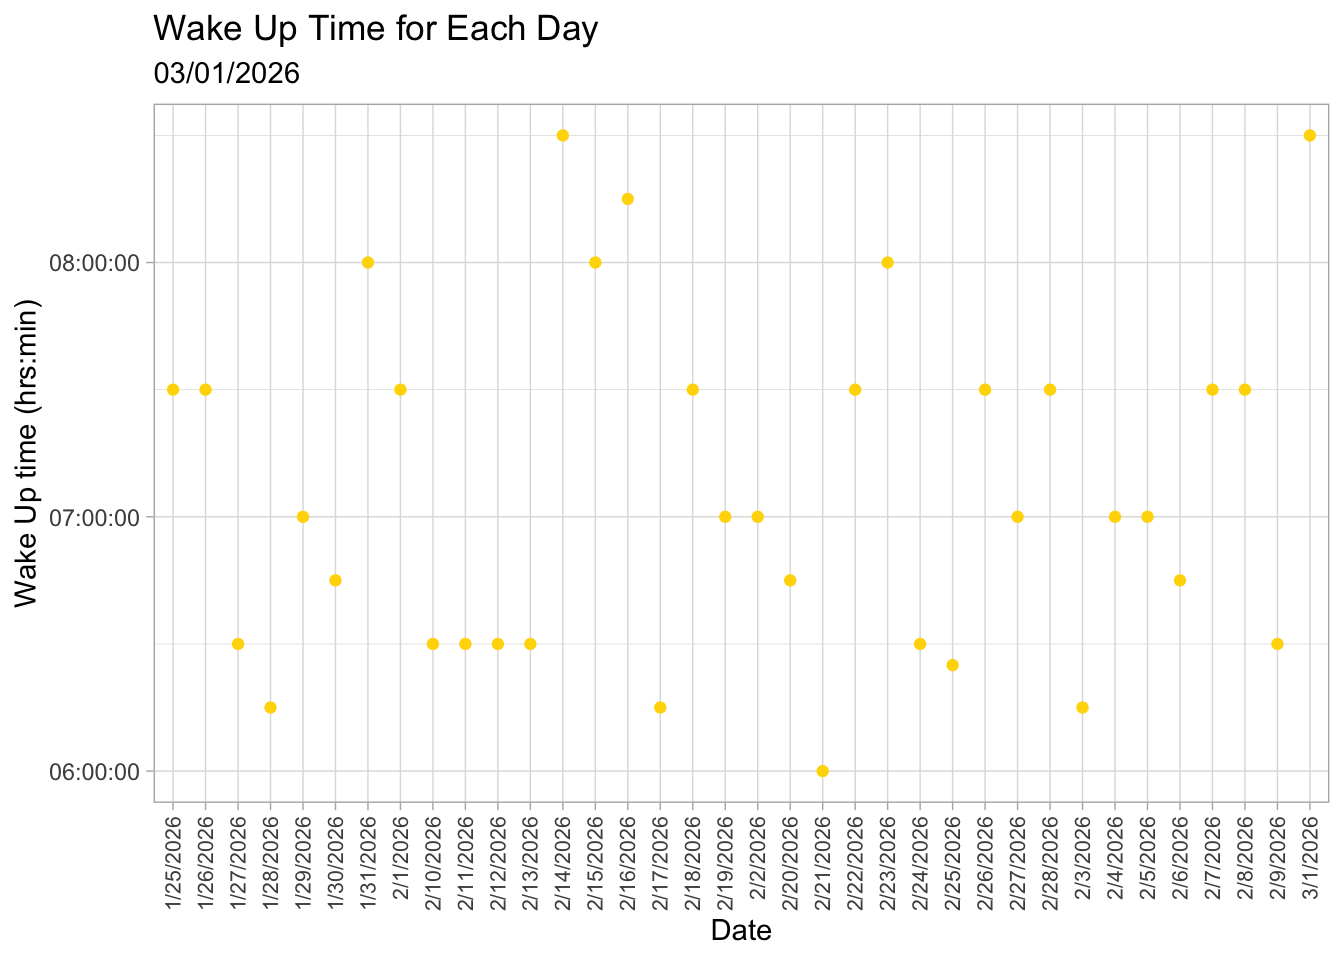
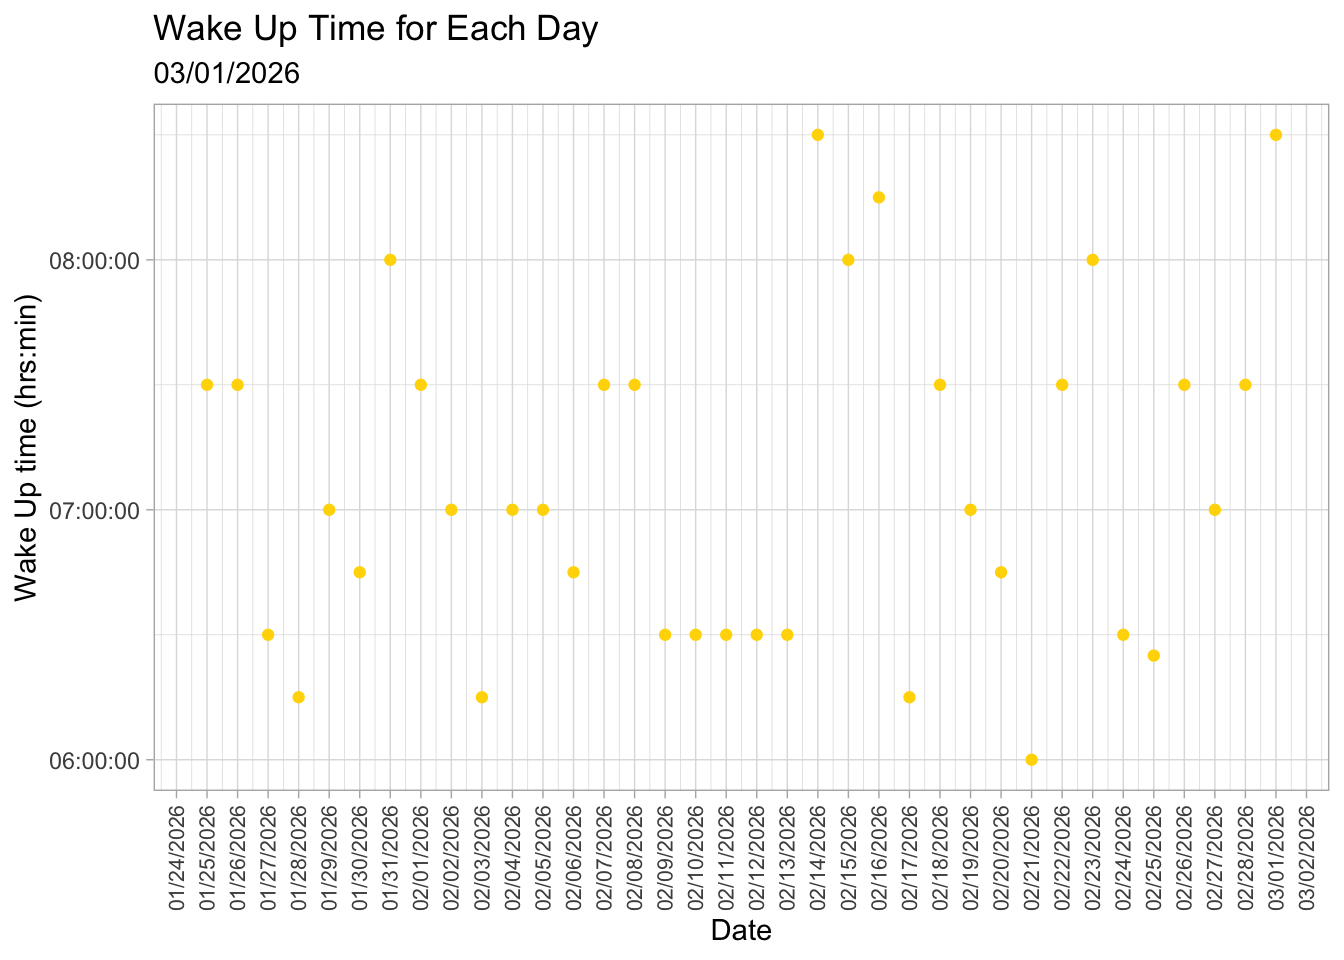
rendered document

diff --git a/Code/Homework03.html b/Code/Homework03.html
@@ -302,7 +302,7 @@ sample estimates:
 0.5928854 </code></pre>
 </div>
 </div>
-<p>Both tests (Pearson’s Correlation and Spearman’s Correlation) would have led me to make the same decision (rejecting the null hypothesis) because the correlation coefficients are similar values that are close to 0.6 and indicate a moderate strength relationship.</p>
+<p>Both tests (Pearson’s Correlation and Spearman’s Correlation) would have led me to make the same decision (rejecting the null hypothesis) because the correlation coefficients are similar values that are close to 0.6 and indicate a moderate strength relationship. The Pearson’s <em>r</em> for the Pearson’s Correlation was 0.534 and the Spearman’s <span class="math inline">\(\rho\)</span> for the Spearman’s Correlation was 0.593.</p>
 </section>
 </section>
 <section id="problem-2.-personal-data" class="level1">
@@ -311,21 +311,22 @@ sample estimates:
 <h2 class="anchored" data-anchor-id="a.-1">a.</h2>
 <div class="cell">
 <div class="code-copy-outer-scaffold"><div class="sourceCode cell-code" id="cb9"><pre class="sourceCode r code-with-copy"><code class="sourceCode r"><span id="cb9-1"><a href="#cb9-1" aria-hidden="true" tabindex="-1"></a>my_data_clean <span class="ot">&lt;-</span> my_data <span class="sc">|&gt;</span> <span class="co">#labeling new data frame</span></span>
-<span id="cb9-2"><a href="#cb9-2" aria-hidden="true" tabindex="-1"></a><span class="fu">clean_names</span>() <span class="co">#cleaned names to only include lower case letters and underscores</span></span>
-<span id="cb9-3"><a href="#cb9-3" aria-hidden="true" tabindex="-1"></a><span class="fu">ggplot</span>(<span class="at">data =</span> my_data_clean, <span class="co">#using my_data_clean data frame</span></span>
-<span id="cb9-4"><a href="#cb9-4" aria-hidden="true" tabindex="-1"></a><span class="fu">aes</span>(<span class="at">x =</span> school_day_yes_no, <span class="co">#placing school_day_yes_no on the x-axis</span></span>
-<span id="cb9-5"><a href="#cb9-5" aria-hidden="true" tabindex="-1"></a><span class="at">y =</span> wake_up_time_hrs_min, <span class="co">#placing wake_up_time_hrs_min on the y-axis</span></span>
-<span id="cb9-6"><a href="#cb9-6" aria-hidden="true" tabindex="-1"></a><span class="at">color =</span> school_day_yes_no)) <span class="sc">+</span> <span class="co">#color by school_day_yes_no</span></span>
-<span id="cb9-7"><a href="#cb9-7" aria-hidden="true" tabindex="-1"></a><span class="fu">geom_boxplot</span>() <span class="sc">+</span> <span class="co">#creating a boxplot</span></span>
-<span id="cb9-8"><a href="#cb9-8" aria-hidden="true" tabindex="-1"></a><span class="fu">labs</span>(<span class="at">x =</span> <span class="st">"School Day"</span>, <span class="co">#labeling the x-axis as School Day</span></span>
-<span id="cb9-9"><a href="#cb9-9" aria-hidden="true" tabindex="-1"></a><span class="at">y =</span> <span class="st">"Wake Up time (hrs:min)"</span>, <span class="co">#labeling the y-axis as Wake Up time (hrs:min)</span></span>
-<span id="cb9-10"><a href="#cb9-10" aria-hidden="true" tabindex="-1"></a><span class="at">title =</span> <span class="st">"Wake Up Time for School Days vs Non-School Days"</span>, <span class="co">#creating title</span></span>
-<span id="cb9-11"><a href="#cb9-11" aria-hidden="true" tabindex="-1"></a><span class="at">subtitle =</span> <span class="st">"03/01/2026"</span>) <span class="sc">+</span> <span class="co">#creating subtitle</span></span>
-<span id="cb9-12"><a href="#cb9-12" aria-hidden="true" tabindex="-1"></a><span class="fu">geom_jitter</span>() <span class="sc">+</span> <span class="co">#creating jittered points</span></span>
-<span id="cb9-13"><a href="#cb9-13" aria-hidden="true" tabindex="-1"></a><span class="fu">theme_light</span>() <span class="sc">+</span> <span class="co">#changing theme to light</span></span>
-<span id="cb9-14"><a href="#cb9-14" aria-hidden="true" tabindex="-1"></a><span class="fu">scale_color_manual</span>(<span class="at">values =</span> <span class="fu">c</span>(<span class="st">"yes"</span> <span class="ot">=</span> <span class="st">"blue4"</span>,</span>
-<span id="cb9-15"><a href="#cb9-15" aria-hidden="true" tabindex="-1"></a><span class="st">"no"</span> <span class="ot">=</span> <span class="st">"red4"</span>)) <span class="sc">+</span> <span class="co">#changing colors based on whether or not it is a school day</span></span>
-<span id="cb9-16"><a href="#cb9-16" aria-hidden="true" tabindex="-1"></a><span class="fu">theme</span>(<span class="at">legend.position =</span> <span class="st">"none"</span>) <span class="co">#removing the legend</span></span></code></pre></div><button title="Copy to Clipboard" class="code-copy-button"><i class="bi"></i></button></div>
+<span id="cb9-2"><a href="#cb9-2" aria-hidden="true" tabindex="-1"></a><span class="fu">clean_names</span>() <span class="sc">|&gt;</span>  <span class="co">#cleaned names to only include lower case letters and underscores</span></span>
+<span id="cb9-3"><a href="#cb9-3" aria-hidden="true" tabindex="-1"></a>  <span class="fu">mutate</span>(<span class="at">date =</span> <span class="fu">as.Date</span>(date, <span class="at">format =</span> <span class="st">"%m/%d/%Y"</span>)) <span class="co">#altering the way the date is read in</span></span>
+<span id="cb9-4"><a href="#cb9-4" aria-hidden="true" tabindex="-1"></a><span class="fu">ggplot</span>(<span class="at">data =</span> my_data_clean, <span class="co">#using my_data_clean data frame</span></span>
+<span id="cb9-5"><a href="#cb9-5" aria-hidden="true" tabindex="-1"></a><span class="fu">aes</span>(<span class="at">x =</span> school_day_yes_no, <span class="co">#placing school_day_yes_no on the x-axis</span></span>
+<span id="cb9-6"><a href="#cb9-6" aria-hidden="true" tabindex="-1"></a><span class="at">y =</span> wake_up_time_hrs_min, <span class="co">#placing wake_up_time_hrs_min on the y-axis</span></span>
+<span id="cb9-7"><a href="#cb9-7" aria-hidden="true" tabindex="-1"></a><span class="at">color =</span> school_day_yes_no)) <span class="sc">+</span> <span class="co">#color by school_day_yes_no</span></span>
+<span id="cb9-8"><a href="#cb9-8" aria-hidden="true" tabindex="-1"></a><span class="fu">geom_boxplot</span>() <span class="sc">+</span> <span class="co">#creating a boxplot</span></span>
+<span id="cb9-9"><a href="#cb9-9" aria-hidden="true" tabindex="-1"></a><span class="fu">labs</span>(<span class="at">x =</span> <span class="st">"School Day"</span>, <span class="co">#labeling the x-axis as School Day</span></span>
+<span id="cb9-10"><a href="#cb9-10" aria-hidden="true" tabindex="-1"></a><span class="at">y =</span> <span class="st">"Wake Up time (hrs:min)"</span>, <span class="co">#labeling the y-axis as Wake Up time (hrs:min)</span></span>
+<span id="cb9-11"><a href="#cb9-11" aria-hidden="true" tabindex="-1"></a><span class="at">title =</span> <span class="st">"Wake Up Time for School Days vs Non-School Days"</span>, <span class="co">#creating title</span></span>
+<span id="cb9-12"><a href="#cb9-12" aria-hidden="true" tabindex="-1"></a><span class="at">subtitle =</span> <span class="st">"03/01/2026"</span>) <span class="sc">+</span> <span class="co">#creating subtitle</span></span>
+<span id="cb9-13"><a href="#cb9-13" aria-hidden="true" tabindex="-1"></a><span class="fu">geom_jitter</span>() <span class="sc">+</span> <span class="co">#creating jittered points</span></span>
+<span id="cb9-14"><a href="#cb9-14" aria-hidden="true" tabindex="-1"></a><span class="fu">theme_light</span>() <span class="sc">+</span> <span class="co">#changing theme to light</span></span>
+<span id="cb9-15"><a href="#cb9-15" aria-hidden="true" tabindex="-1"></a><span class="fu">scale_color_manual</span>(<span class="at">values =</span> <span class="fu">c</span>(<span class="st">"yes"</span> <span class="ot">=</span> <span class="st">"blue4"</span>,</span>
+<span id="cb9-16"><a href="#cb9-16" aria-hidden="true" tabindex="-1"></a><span class="st">"no"</span> <span class="ot">=</span> <span class="st">"red4"</span>)) <span class="sc">+</span> <span class="co">#changing colors based on whether or not it is a school day</span></span>
+<span id="cb9-17"><a href="#cb9-17" aria-hidden="true" tabindex="-1"></a><span class="fu">theme</span>(<span class="at">legend.position =</span> <span class="st">"none"</span>) <span class="co">#removing the legend</span></span></code></pre></div><button title="Copy to Clipboard" class="code-copy-button"><i class="bi"></i></button></div>
 <div class="cell-output-display">
 <div>
 <figure class="figure">
@@ -343,8 +344,9 @@ sample estimates:
 <span id="cb10-6"><a href="#cb10-6" aria-hidden="true" tabindex="-1"></a><span class="at">y =</span> <span class="st">"Wake Up time (hrs:min)"</span>, <span class="co">#labeling the y-axis</span></span>
 <span id="cb10-7"><a href="#cb10-7" aria-hidden="true" tabindex="-1"></a><span class="at">title =</span> <span class="st">"Wake Up Time for Each Day"</span>, <span class="co">#creating a title</span></span>
 <span id="cb10-8"><a href="#cb10-8" aria-hidden="true" tabindex="-1"></a><span class="at">subtitle =</span> <span class="st">"03/01/2026"</span>) <span class="sc">+</span> <span class="co">#creating a subtitle</span></span>
-<span id="cb10-9"><a href="#cb10-9" aria-hidden="true" tabindex="-1"></a><span class="fu">theme_light</span>() <span class="sc">+</span> <span class="co">#changing the theme to light</span></span>
-<span id="cb10-10"><a href="#cb10-10" aria-hidden="true" tabindex="-1"></a><span class="fu">theme</span>(<span class="at">axis.text.x =</span> <span class="fu">element_text</span>(<span class="at">angle =</span> <span class="dv">90</span>, <span class="at">vjust =</span> <span class="fl">0.5</span>, <span class="at">hjust =</span> <span class="dv">1</span>, <span class="at">size =</span> <span class="dv">8</span>)) <span class="co">#changing the text on the x-axis to be vertical and smaller </span></span></code></pre></div><button title="Copy to Clipboard" class="code-copy-button"><i class="bi"></i></button></div>
+<span id="cb10-9"><a href="#cb10-9" aria-hidden="true" tabindex="-1"></a>  <span class="fu">scale_x_date</span>(<span class="at">date_labels =</span> <span class="st">"%m/%d/%Y"</span>, <span class="at">date_breaks =</span> <span class="st">"1 day"</span>) <span class="sc">+</span> <span class="co">#added in the labels for the x axis to be every day in the above format</span></span>
+<span id="cb10-10"><a href="#cb10-10" aria-hidden="true" tabindex="-1"></a><span class="fu">theme_light</span>() <span class="sc">+</span> <span class="co">#changing the theme to light</span></span>
+<span id="cb10-11"><a href="#cb10-11" aria-hidden="true" tabindex="-1"></a><span class="fu">theme</span>(<span class="at">axis.text.x =</span> <span class="fu">element_text</span>(<span class="at">angle =</span> <span class="dv">90</span>, <span class="at">vjust =</span> <span class="fl">0.5</span>, <span class="at">hjust =</span> <span class="dv">1</span>, <span class="at">size =</span> <span class="dv">8</span>)) <span class="co">#changing the text on the x-axis to be vertical and smaller </span></span></code></pre></div><button title="Copy to Clipboard" class="code-copy-button"><i class="bi"></i></button></div>
 <div class="cell-output-display">
 <div>
 <figure class="figure">
@@ -356,15 +358,15 @@ sample estimates:
 </section>
 <section id="b.-1" class="level2">
 <h2 class="anchored" data-anchor-id="b.-1">b.</h2>
-<p>Figure 1. This figure shows the distribution of recorded wake up times between school days, which is denoted by the blue points, and non-school days, which is denoted by the red points. Additionally, the figure shows the medians and quartiles for each type of day, represented by the boxes and lines, indicating that the median wake up time is later on non-school days than on school days.</p>
-<p>Figure 2. This figure shows the distribution of recorded wake up times for each day from 01/25/2026 to 03/01/2026, denoted by the gold points.</p>
+<p><strong>Figure 1.</strong> This figure shows the distribution of recorded wake up times between school days, which is denoted by the blue points, and non-school days, which is denoted by the red points. Additionally, the figure shows the medians and quartiles for each type of day, represented by the boxes and lines, indicating that the median wake up time is later on non-school days than on school days.</p>
+<p><strong>Figure 2.</strong> This figure shows the distribution of recorded wake up times for each day from 01/25/2026 to 03/01/2026, denoted by the gold points.</p>
 </section>
 </section>
 <section id="problem-3.-affective-visualization" class="level1">
 <h1>Problem 3. Affective Visualization</h1>
 <section id="a.-2" class="level2">
 <h2 class="anchored" data-anchor-id="a.-2">a.</h2>
-<p>I think an affective visualization could look be similar to figure two, where instead of the points and axis, it could look like a sunrise where each point is supposed to fall, given that the data is showing when I wake up.</p>
+<p>I think an affective visualization could look be similar to figure two, where instead of the points and axis, it could look like a sunrise where each point is supposed to fall, given that the data is showing when I wake up. Each point is higher when I woke up later and the lines connect to form a wave-like structure to make it look similar to a sunrise.</p>
 </section>
 <section id="b.-2" class="level2">
 <h2 class="anchored" data-anchor-id="b.-2">b.</h2>
@@ -376,7 +378,7 @@ sample estimates:
 </section>
 <section id="d.-1" class="level2">
 <h2 class="anchored" data-anchor-id="d.-1">d.</h2>
-<p>This piece displays the time I wake up each day from 1/25/26 to 3/1/26. I was primarily influenced by watercolor techniques, as it is a watercolor painting created by layering different colors.</p>
+<p>This piece displays the time I wake up each day from 1/25/26 to 3/1/26, where the center line (between the yellow and blue) represents when I woke up on each day. The higher each peak, the later I woke up. I was primarily influenced by watercolor techniques, as it is a watercolor painting created by layering different colors.</p>
 </section>
 <section id="e.-1" class="level2">
 <h2 class="anchored" data-anchor-id="e.-1">e.</h2>
@@ -396,11 +398,11 @@ sample estimates:
 </section>
 <section id="c.-2" class="level2">
 <h2 class="anchored" data-anchor-id="c.-2">c.</h2>
-<p>I would say there is minimal “visual clutter” overall. I think the data to ink ratio is relatively high, as there are few elements that aren’t directly displaying the data.</p>
+<p>I would say there is minimal “visual clutter” overall. In the first image, there are lines that show the trend of the data and the data points themselves, which is visually effective and aids in comparison of the different variables. The second image could be condensed, as the bars are far apart creating lots of empty space. For both visualizations, the ticks on the axes could be larger for readability. I think the data to ink ratio is relatively high, as there are few elements that aren’t directly displaying the data, despite the presence of some empty space.</p>
 </section>
 <section id="d.-2" class="level2">
 <h2 class="anchored" data-anchor-id="d.-2">d.</h2>
-<p>The authors could add more information to the caption, which would make the figures more digestible and bring clarity to the point of the figure. For figure 5, it might be beneficial to make the axes tick labels clearer.</p>
+<p>The authors could add more information to the caption, which would make the figures more digestible and bring clarity to the point of the figure. This would also allow for readers to understand the scale for different variables, such as what values led to the labeling of average slope. For figure 5, it might be beneficial to make the axes tick labels clearer by making them larger, which would increase readability. For the second figure, the bars could be closer together to reduce unnecessary empty space and make comparisons clearer.</p>
 </section>
 </section>
 
